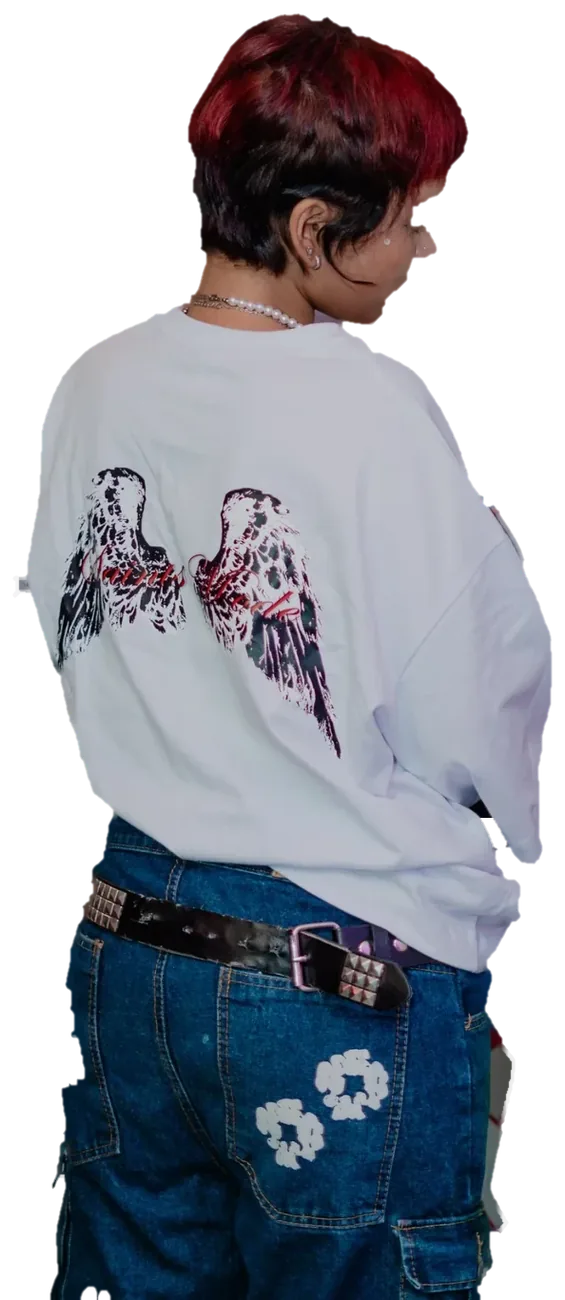
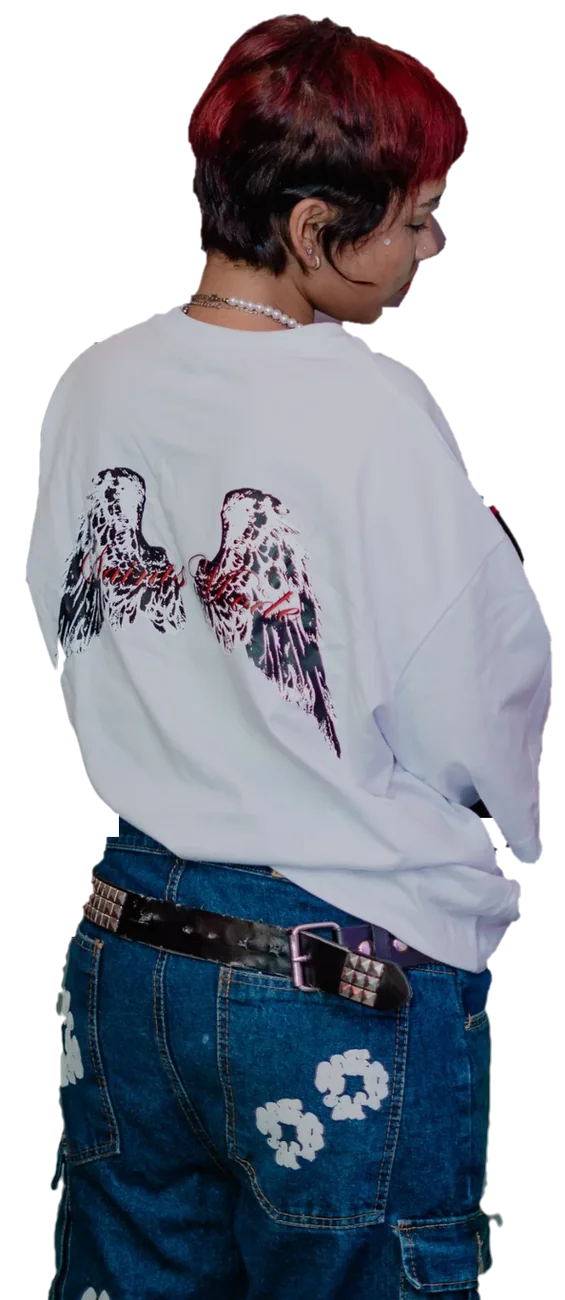
Modelo de pelo corto (espalda): cara completa, borde de la camiseta y jean limpios
Claude-Session: https://claude.ai/code/session_013ynmKTYERfCmJQKP2pb1Nx

diff --git a/tools/recorte/chica_esp.py b/tools/recorte/chica_esp.py
@@ -1,0 +1,57 @@
+import numpy as np, cv2
+from PIL import Image
+src = Image.open('src/blanco-chica-espalda.png').convert('RGB'); src.thumbnail((1800, 1800), Image.LANCZOS)
+OX, OY = 69, 433
+a = np.asarray(Image.open('cut4_blanco-chica-espalda.webp').convert('RGBA')).astype(np.float32)
+H, W = a.shape[:2]
+O = np.asarray(src).astype(np.float32)[OY:OY + H, OX:OX + W]
+a[..., :3] = O  # color original (sin retoques de borde)
+R, G, B = O[..., 0], O[..., 1], O[..., 2]
+mx = O.max(-1); mn = O.min(-1); sat = (mx - mn) / np.maximum(mx, 1); lum = O @ np.array([0.299, 0.587, 0.114])
+al = a[..., 3] / 255
+def region(box):
+    z = np.zeros((H, W), bool); x0, y0, x1, y1 = box; z[y0:y1, x0:x1] = True; return z
+def smooth_in(box, sig, m):
+    x0, y0, x1, y1 = box
+    reg = m[y0:y1, x0:x1]
+    sm = cv2.GaussianBlur(reg, (0, 0), sig); sm = np.clip((sm - 0.5) * 2.4 + 0.5, 0, 1)
+    m[y0:y1, x0:x1] = sm
+# 1) cara: recuperar pestañas, nariz y labios (perfil marcado a mano)
+face = np.array([(380, 160), (466, 160), (468, 196), (462, 207), (460, 217), (452, 223), (461, 236), (468, 250), (466, 260), (459, 267), (448, 271), (440, 274), (438, 283), (433, 293), (428, 306), (418, 322), (380, 322)], np.int32)
+fm = np.zeros((H, W), np.uint8); cv2.fillPoly(fm, [face], 1)
+fm = cv2.GaussianBlur(fm.astype(np.float32), (3, 3), 0)
+al = np.maximum(al, fm)
+# 2) lado izquierdo de la camiseta: borde por brillo (tela clara vs pared/máquina)
+bx = (0, 360, 125, 880); z = region(bx)
+shirt = np.clip((lum - 130) / 25, 0, 1)
+inner = cv2.erode((al > 0.5).astype(np.uint8), np.ones((25, 25), np.uint8)).astype(np.float32)  # estampado y tela de adentro se quedan
+al = np.where(z, np.maximum(shirt * (al > 0.02) + shirt * (lum > 150), inner).clip(0, 1), al)
+smooth_in(bx, 2.0, al)
+# 3) pierna izquierda: todo lo que no es pared gris se queda (jean y flores)
+bx = (25, 985, 125, 1367); z = region(bx)
+wall = (lum > 70) & (lum < 135) & (sat < 0.14)
+keep = (~wall).astype(np.float32)
+keep = cv2.morphologyEx(keep, cv2.MORPH_OPEN, np.ones((3, 3), np.uint8))
+al = np.where(z, keep, al)
+smooth_in(bx, 2.0, al)
+# 4) pierna derecha: fuera la máquina de arcade, solo queda el jean
+bx = (492, 1045, W, H); z = region(bx)
+denim = ((B - R) > 20) & (lum < 120)
+denim = cv2.morphologyEx(denim.astype(np.uint8), cv2.MORPH_CLOSE, np.ones((7, 7), np.uint8))
+# solo lo pegado al cuerpo (el jean de la izquierda continúa)
+n, lab = cv2.connectedComponents(denim, 8)
+body = lab == lab[1200, 494] if lab[1200, 494] else denim > 0
+al = np.where(z, np.minimum(al, body.astype(np.float32)), al)
+smooth_in(bx, 2.5, al)
+# quitar puntitos sueltos
+n, lab, st, _ = cv2.connectedComponentsWithStats((al > 0.3).astype(np.uint8), 8)
+big = 1 + int(np.argmax(st[1:, cv2.CC_STAT_AREA]))
+al = al * cv2.dilate((lab == big).astype(np.uint8), np.ones((5, 5), np.uint8))
+a[..., 3] = np.clip(al, 0, 1) * 255
+im = Image.fromarray(np.clip(a, 0, 255).astype(np.uint8), 'RGBA')
+im.save('cut5_blanco-chica-espalda.webp', 'WEBP', quality=90, alpha_quality=95, method=6)
+b = Image.new('RGBA', im.size, (255, 63, 164, 255)); b.alpha_composite(im)
+crops = [b.crop((360, 160, 500, 330)).resize((280, 340)), b.crop((0, 360, 160, 880)).resize((160, 520)), b.crop((0, 960, 160, 1367)).resize((160, 407)), b.crop((420, 960, 594, 1367))]
+s = Image.new('RGB', (sum(c.width + 10 for c in crops), 520), 'white'); x = 0
+for c in crops: s.paste(c.convert('RGB'), (x, 0)); x += c.width + 10
+s.save('esp_fix.png')
